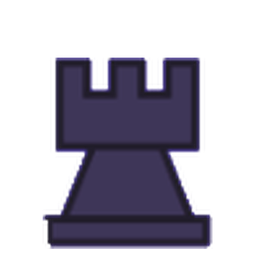
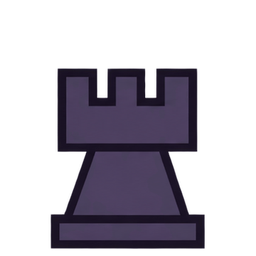
Flat piece set: replace with Dede's sharper version
Claude-Session: https://claude.ai/code/session_01GrAMtJTngoRoo4wWg1kne8

Changed region(s): [[0.1562, 0.2188, 0.8438, 1.0], [0.5312, 0.8438, 0.5938, 0.875], [0.4062, 0.8438, 0.4375, 0.875]]

diff --git a/board-theme.js b/board-theme.js
@@ -6,7 +6,7 @@
  */
 (() => {
   'use strict';
-  const KEY = 'chesslab.boardTheme', PKEY = 'chesslab.pieceSet', V = 6;
+  const KEY = 'chesslab.boardTheme', PKEY = 'chesslab.pieceSet', V = 7;
   const BASE = new URL('chess-lab/pieces/', document.currentScript ? document.currentScript.src : location.href).href;
   const THEMES = [
     { id: 'classic', name: 'Classic Green', l: '#eed5a4', d: '#355a31' },

diff --git a/chess-lab/index.html b/chess-lab/index.html
@@ -3,7 +3,7 @@
 <head>
   <meta charset="utf-8">
   <script src="../sync.js"></script>
-  <script src="../board-theme.js?v=5"></script>
+  <script src="../board-theme.js?v=6"></script>
   <meta name="viewport" content="width=device-width, initial-scale=1">
   <title>Chess Lab · Spar &amp; Review</title>
   <link rel="icon" href="data:,">

diff --git a/chess.html b/chess.html
@@ -3,7 +3,7 @@
 <head>
 <meta charset="utf-8">
 <script src="sync.js"></script>
-<script src="board-theme.js?v=5"></script>
+<script src="board-theme.js?v=6"></script>
 <meta name="viewport" content="width=device-width, initial-scale=1">
 <title>Daily Puzzle Drill</title>
 <link rel="preconnect" href="https://fonts.googleapis.com">
